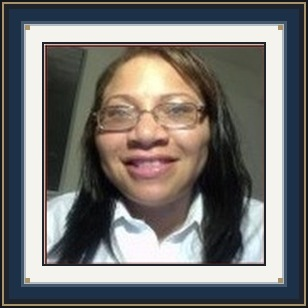
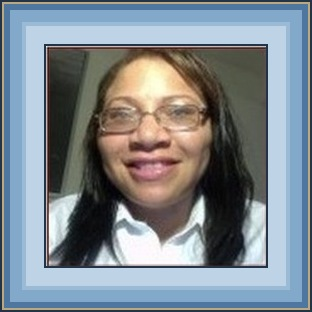
Unify roster photo mat and site blues so the frame reads as one palette.

diff --git a/src/theme.ts b/src/theme.ts
@@ -89,13 +89,13 @@ export const PALETTES: Record<string, Palette> = {
     accent: "#3a6b35",
     accentInk: "#ffffff",
   },
-  /** Light blue page with warm ink — the selected blue look. */
+  /** Soft photogenic blue page matched to the roster photo frame blues. */
   blue: {
-    paper: "#cad9ea",
-    surface: "#fffdf8",
+    paper: "#bed2e6",
+    surface: "#f4f8fb",
     ink: "#1c1714",
     muted: "#5c5146",
-    line: "#eadfcd",
+    line: "#9eb8d0",
     accent: "#b4552d",
     accentInk: "#ffffff",
   },
